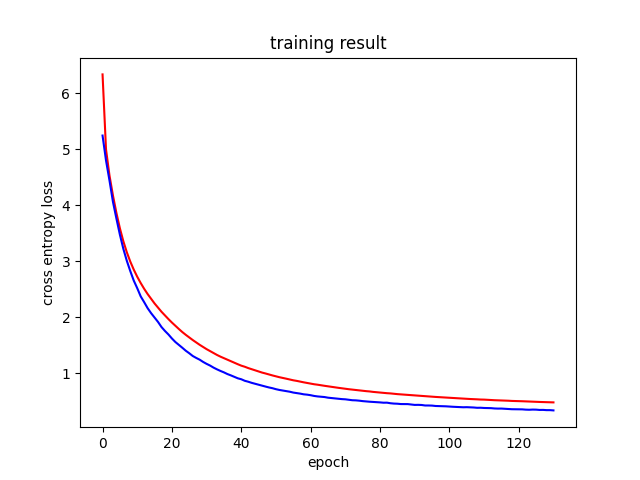
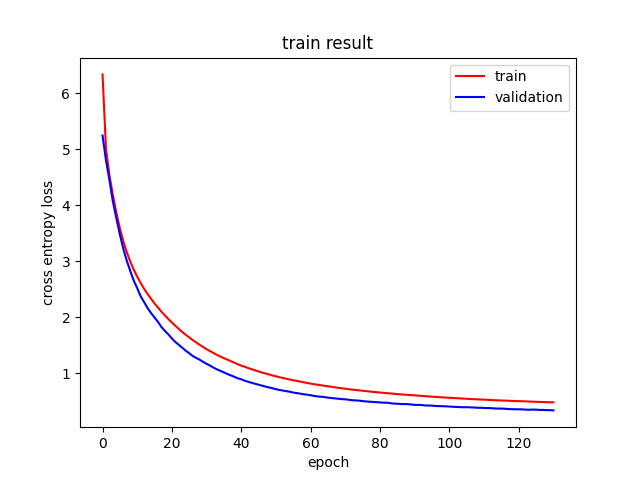
init implementation

Changed region(s): [[0.4062, 0.0625, 0.625, 0.125], [0.75, 0.125, 0.875, 0.2188], [0.7188, 0.1562, 0.75, 0.2188]]

diff --git a/plot.py b/plot.py
@@ -26,7 +26,7 @@ plt.legend(loc='upper right')
 plt.ylabel('cross entropy loss')
 plt.xlabel('epoch')
 
-plt.title('training result')
+plt.title('train result')
 plt.show()
 
 print(min(train))
